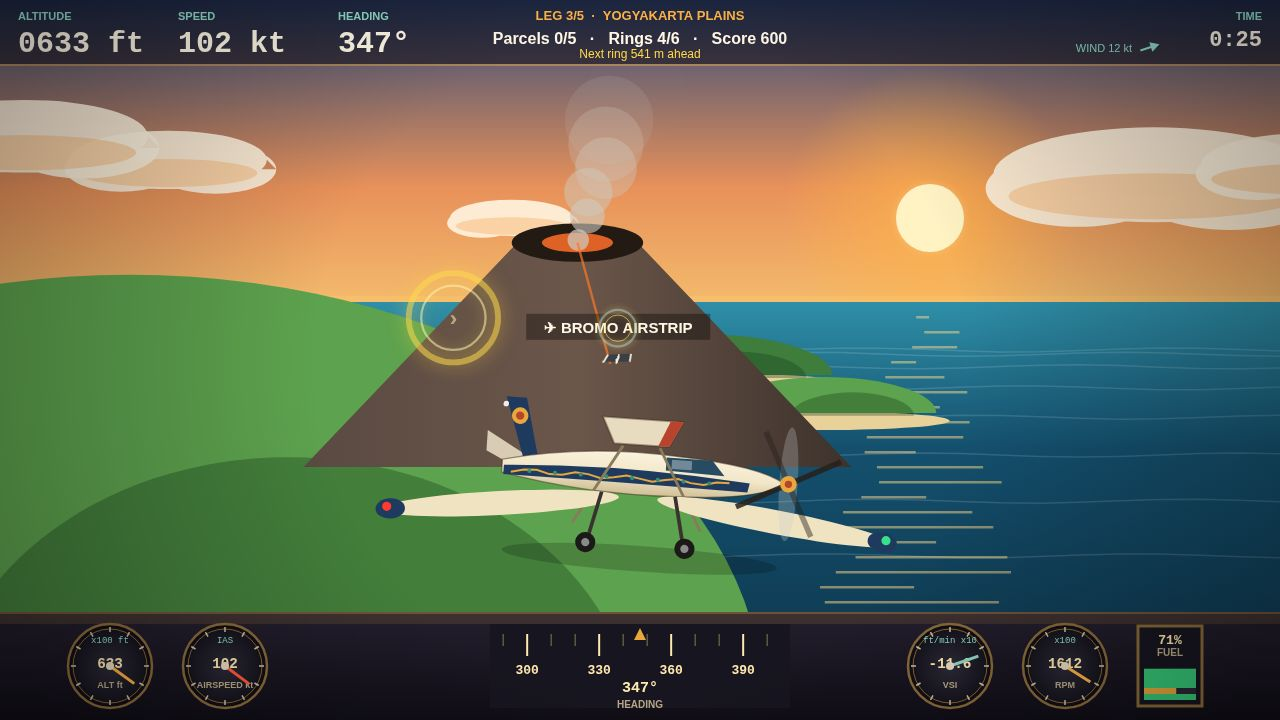
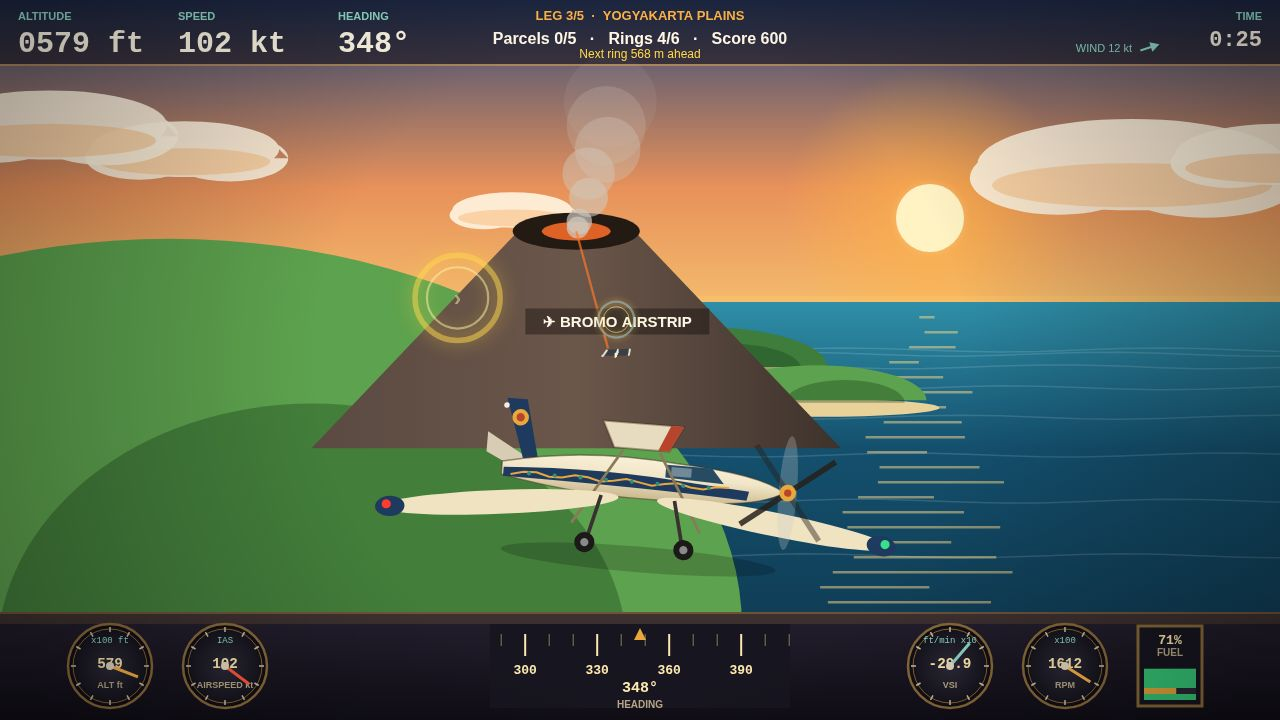
Batik Sky Courier v2: fix landings — autopilot could not land any leg (stall sink, weak pitch authority, floating over runway)

diff --git a/game/src/world.js b/game/src/world.js
@@ -158,22 +158,29 @@ export function stepWorld(w, axes, dt) {
   const gust = w.gust * (leg.weather === 'storm' ? 1.6 : 0.6);
 
   // Controls: blend keyboard and mouse steering.
+  // Pitch authority used to be scaled by 0.55 (max pitch ±0.385), so the
+  // plane could not sink faster than ~4 m/s on final and floated over
+  // every runway. Full authority: max pitch ±0.7.
   const rollTarget = clamp(axes.roll * 0.85 + axes.mouseRoll * 0.45, -1, 1) * 0.9;
-  const pitchTarget = clamp(axes.pitch * 0.7 + axes.mousePitch * 0.35, -1, 1) * 0.55;
+  const pitchTarget = clamp(axes.pitch * 0.7 + axes.mousePitch * 0.35, -1, 1);
   w.roll += (rollTarget - w.roll) * Math.min(1, dt * 3.2);
   w.pitch += (pitchTarget - w.pitch) * Math.min(1, dt * 2.6);
   w.throttle = clamp(w.throttle + axes.throttle * dt * 0.55, 0.15, 1);
   w.flaps = axes.flaps;
 
-  // Speed: throttle drives it, flaps and climb bleed it.
-  const targetSpeed = P.minSpeed + (P.maxSpeed - P.minSpeed) * w.throttle
-    - Math.max(0, w.pitch) * 14 - (w.flaps ? 16 : 0);
+  // Speed: throttle drives it, flaps and climb bleed it. The speed floor
+  // keeps the plane flyable on final — the old flap drag (-16) collapsed
+  // speed to ~13, where stall sink then sank the plane into the hillside.
+  let targetSpeed = P.minSpeed + (P.maxSpeed - P.minSpeed) * w.throttle
+    - Math.max(0, w.pitch) * 14 - (w.flaps ? 9 : 0);
+  targetSpeed = Math.max(26, targetSpeed);
   w.speed += (targetSpeed - w.speed) * Math.min(1, dt * 0.8);
   w.speed = clamp(w.speed, 8, P.maxSpeed + 6);
 
   // Vertical speed from pitch and speed.
   w.vspeed = w.pitch * P.climbRate * (w.speed / P.cruiseSpeed) - (w.flaps ? 4 : 0);
-  if (w.speed < 26) w.vspeed -= (26 - w.speed) * 0.7; // stall sink
+  // Stall sink, capped so it can never overpower a climb command.
+  if (w.speed < 26) w.vspeed -= Math.min(6, (26 - w.speed) * 0.7);
   w.alt += w.vspeed * dt;
   w.alt = Math.max(0, w.alt);
 
@@ -245,14 +252,17 @@ export function stepWorld(w, axes, dt) {
     return ev;
   }
 
-  // Runway landing zone.
-  if (w.z >= w.runwayZ - 160 && w.z <= w.runwayZ + 260) {
+  // Runway landing zone. The window runs to +800 so a plane still sinking
+  // gently after the threshold can touch down instead of being called an
+  // overshoot — the autopilot was at touchdown altitude 1 m past +650.
+  if (w.z >= w.runwayZ - 160 && w.z <= w.runwayZ + 800) {
     const destGh = groundHeight(w, w.x, w.runwayZ);
     if (w.alt <= destGh + 14) {
-      // Touchdown.
+      // Touchdown. Thresholds are firm but human-achievable: a slow,
+      // level flare lands; a fast dive or a wild lateral offset does not.
       const lateralErr = Math.abs(w.x);
-      const speedOk = w.speed < 62;
-      const vsOk = w.vspeed > -9;
+      const speedOk = w.speed < 68;
+      const vsOk = w.vspeed > -12;
       if (lateralErr < 55 && speedOk && vsOk) {
         const quality = lateralErr < 18 && w.speed < 48 && w.vspeed > -5 ? 'PERFECT' : 'GOOD';
         const bonus = quality === 'PERFECT' ? P.perfectLandingBonus : P.goodLandingBonus;
@@ -283,7 +293,7 @@ export function stepWorld(w, axes, dt) {
     }
   }
   // Overshot the runway entirely.
-  if (w.z > w.runwayZ + 300) {
+  if (w.z > w.runwayZ + 850) {
     w.screen = SCREEN.CRASHED;
     w.crashReason = 'You overshot the runway.';
     ev.crashed = true;

diff --git a/game/src/shots.js b/game/src/shots.js
@@ -12,26 +12,50 @@ import { LEGS } from './config.js';
 export function autopilotAxes(w) {
   const target = w.rings[w.nextRing] || null;
   const tx = target ? target.x : 0;
-  let talt = target ? target.alt : 120;
+  // Final approach target: the strip itself (ground at the runway + ~8),
+  // not 55 — holding 55 made the plane float above touchdown forever.
+  let talt = target ? target.alt : groundHeight(w, 0, w.runwayZ) + 8;
   const tz = target ? target.z : w.runwayZ;
-  // Altitude floor: stay well clear of terrain/volcano ahead.
+  // Start coming down well before the runway: cap the target altitude
+  // once the strip is 2500 m out, so high storm rings don't leave the
+  // plane 150 m up with nowhere to descend to.
+  const distToRunway = w.runwayZ - w.z;
+  // Caps sit just below the late-ring altitudes (180/140) so the plane
+  // can still thread them (ring radius 26) while coming down early.
+  if (distToRunway < 2500) talt = Math.min(talt, 160);
+  if (distToRunway < 1600) talt = Math.min(talt, 120);
+  // Altitude floor: stay well clear of terrain/volcano ahead en route;
+  // on final the margin shrinks to just above the strip.
   const ghAhead = Math.max(groundHeight(w, w.x, w.z + 200), groundHeight(w, tx, tz));
-  talt = Math.max(talt, ghAhead + 45);
+  talt = Math.max(talt, ghAhead + (target ? 45 : 6));
   // Desired heading points at the target; roll closes the heading error.
+  // Wider heading authority on final approach so gusts can't push the
+  // plane off the strip.
   const dx = tx - w.x;
   const dz = Math.max(120, tz - w.z);
-  const targetHeading = Math.max(-0.45, Math.min(0.45, Math.atan2(dx, dz)));
+  const hdgLimit = target ? 0.45 : 0.6;
+  const targetHeading = Math.max(-hdgLimit, Math.min(hdgLimit, Math.atan2(dx, dz)));
   const roll = Math.max(-1, Math.min(1, (w.heading - targetHeading) * 2.2));
   // Altitude error: pitch toward target altitude.
   const da = talt - w.alt;
-  const pitch = Math.max(-1, Math.min(1, da / 45));
-  // Throttle: fast en route, slow near the runway.
-  const distToRunway = w.runwayZ - w.z;
+  let pitch = Math.max(-1, Math.min(1, da / 45));
+  // Throttle: fast en route; on final, hold ~40 kt instead of cutting to
+  // idle — cutting to idle collapsed speed into a stall on every leg.
   let throttle = 0;
-  if (!target && distToRunway < 500) throttle = -1; // slow down for landing
-  else if (w.speed < 52) throttle = 1;
+  if (!target && distToRunway < 1200) {
+    if (w.speed > 50) throttle = -1;
+    else if (w.speed < 38) throttle = 1;
+  } else if (w.speed < 52) throttle = 1;
   else if (w.speed > 66) throttle = -1;
-  const flaps = !target && distToRunway < 420;
+  const flaps = !target && distToRunway < 450;
+  if (!target && distToRunway < 1200) {
+    // Two-phase final: firm descent to 300 m out, then a gentle sink.
+    // (One flat -0.3 cap floated the plane over the runway on every leg.)
+    if (distToRunway > 300) pitch = Math.max(-0.6, Math.min(0.4, pitch));
+    else pitch = Math.max(-0.35, Math.min(0.4, pitch));
+    // Flare only once low: near-level, gentle sink onto the strip.
+    if (distToRunway < 250 && w.alt < 46) pitch = Math.max(-0.12, Math.min(0.15, pitch));
+  }
   return { pitch, roll, throttle, flaps, mouseRoll: 0, mousePitch: 0 };
 }
 

diff --git a/game/src/config.js b/game/src/config.js
@@ -109,8 +109,9 @@ export function ringPlan(legIndex) {
   const fracs = [0.14, 0.30, 0.46, 0.60, 0.74, 0.87];
   const lats = [-70, 60, -40, 90, -80, 30];
   const alts = [150, 190, 170, 210, 180, 140];
-  // Leg 4 storm rings sit higher to clear the volcano.
-  const altBoost = legIndex === 3 ? 55 : 0;
+  // Leg 4 storm rings sit a little higher to clear the volcano — but not
+  // so high that the plane can't get down to the runway afterwards.
+  const altBoost = legIndex === 3 ? 25 : 0;
   const latBoost = legIndex === 3 ? 12 : 0;
   return fracs.map((f, i) => ({
     frac: f,
